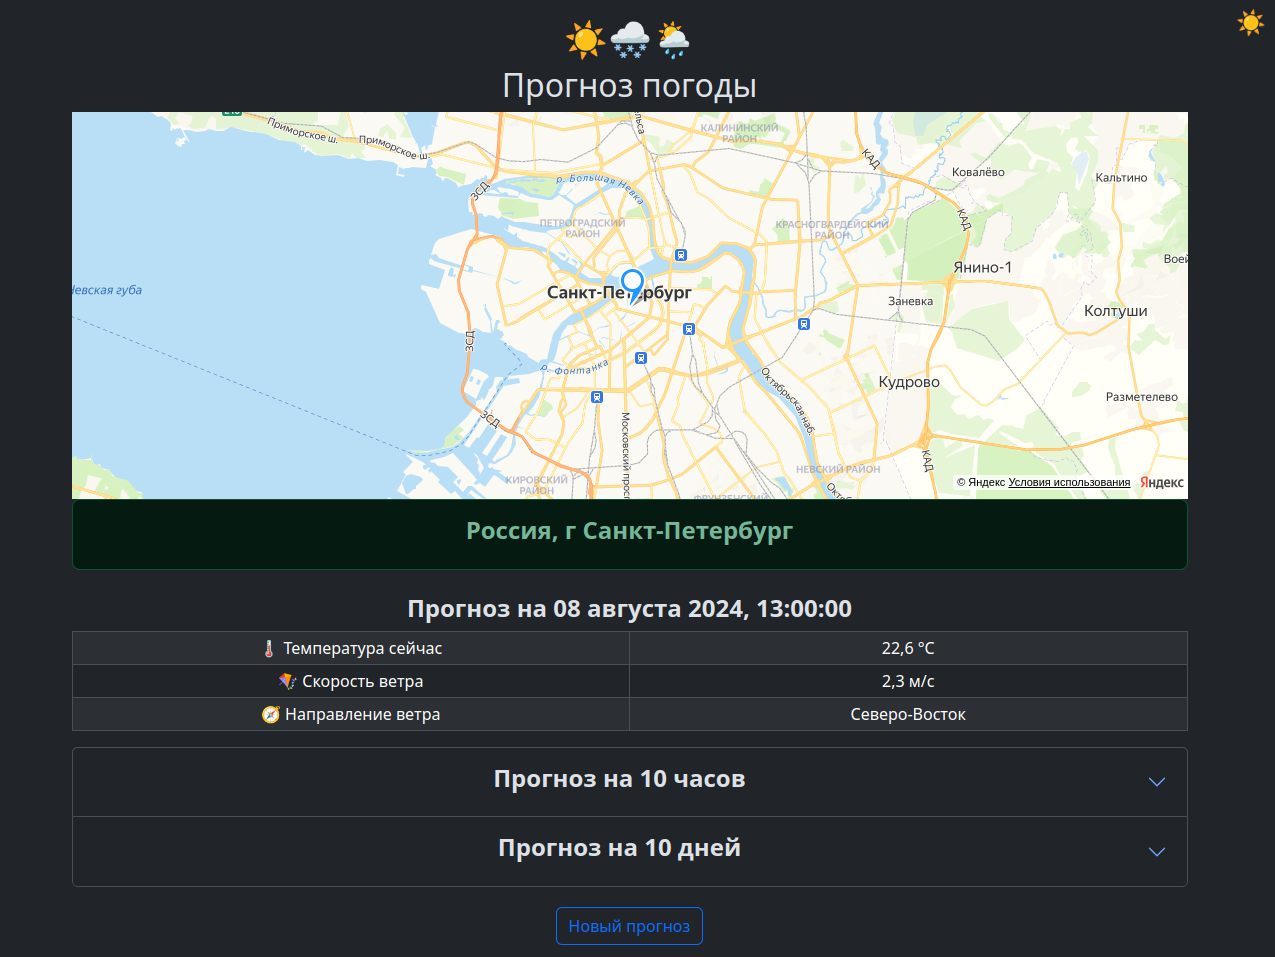
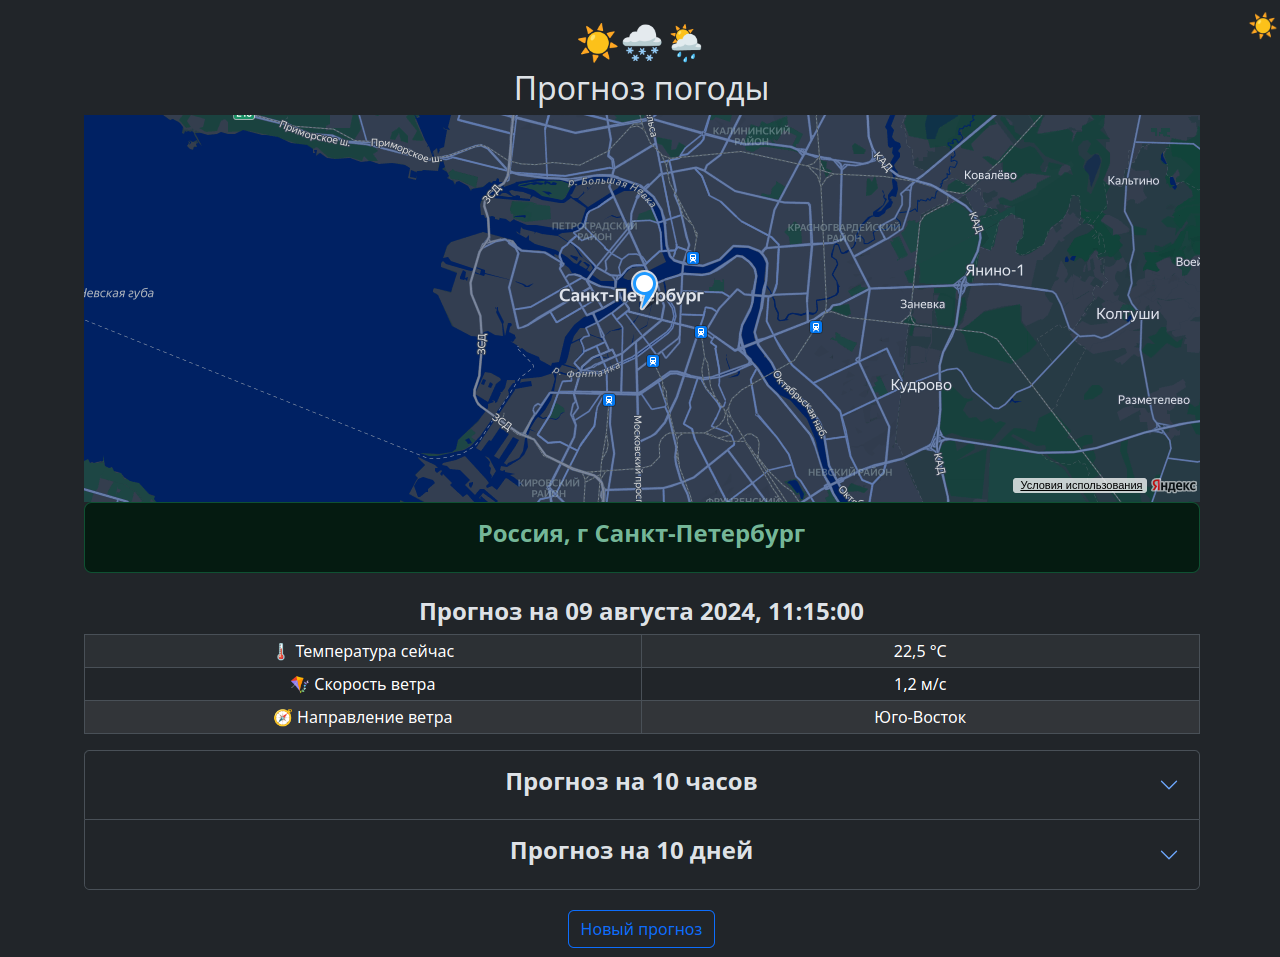
UI changes in map dark mode.

diff --git a/backend/templates/includes/map.html b/backend/templates/includes/map.html
@@ -1,5 +1,5 @@
 <!DOCTYPE html>
-<html lang="ru">
+<html lang="ru" data-bs-theme="">
 <head>
     <meta charset="UTF-8">
     <meta name="viewport" content="width=device-width, initial-scale=1.0">
@@ -28,39 +28,59 @@
         </div>
     </div>
 
+    <!-- Яндекс Карты API -->
     <script>
-        document.addEventListener('DOMContentLoaded', function() {
-            const yandexApiUrl = `https://api-maps.yandex.ru/2.1/?apikey={{ yandex_api_key }}&lang=ru_RU`;
+        (function() {
+            'use strict';
 
-            let map = null;
+            const yandexApiUrl = `https://api-maps.yandex.ru/2.1/?apikey={{ yandex_api_key }}&lang=ru_RU`;
             let isLoading = false;
 
-            // Функция для создания карты после загрузки API Яндекс.Карт
+            // Создание карты после загрузки API Яндекс.Карт
             async function createMap() {
-                ymaps.ready(function() {
-                    const latitude = {{ latitude|safe }};
-                    const longitude = {{ longitude|safe }};
-                    const temperature = {{ forecast.current_weather.temperature|safe }};
+                if (window.ymaps) {
+                    await ymaps.ready(function() {
+                        const latitude = {{ latitude|safe }};
+                        const longitude = {{ longitude|safe }};
+                        const temperature = {{ forecast.current_weather.temperature|safe }};
 
-                    map = new ymaps.Map('canvas', {
-                        center: [latitude, longitude],
-                        zoom: 11,
-                        controls: []
-                    }, {
-                        suppressMapOpenBlock: true,
-                        yandexMapDisablePoiInteractivity: false
+                        window.map = new ymaps.Map('canvas', {
+                            center: [latitude, longitude],
+                            zoom: 11,
+                            controls: []
+                        }, {
+                            suppressMapOpenBlock: true,
+                            yandexMapDisablePoiInteractivity: false
+                        });
+
+                        var marker = new ymaps.Placemark([latitude, longitude], {
+                            hintContent: `Температура: ${temperature}°C, Широта: ${latitude}, Долгота: ${longitude}`,
+                            balloonContent: `<strong>Температура:</strong> ${temperature}°C<br><strong>Широта:</strong> ${latitude}<br><strong>Долгота:</strong> ${longitude}`
+                        });
+
+                        window.map.geoObjects.add(marker);
+
+                        // Устанавливаем начальный слой карты в зависимости от текущей темы
+                        setMapLayer(getPreferredTheme());
                     });
-
-                    var marker = new ymaps.Placemark([latitude, longitude], {
-                        hintContent: `Температура: ${temperature}°C, Широта: ${latitude}, Долгота: ${longitude}`,
-                        balloonContent: `<strong>Температура:</strong> ${temperature}°C<br><strong>Широта:</strong> ${latitude}<br><strong>Долгота:</strong> ${longitude}`
-                    });
-
-                    map.geoObjects.add(marker);
-                });
+                } else {
+                    console.error('ymaps is not defined');
+                }
             }
 
-            // Функция для асинхронной загрузки скрипта API Яндекс.Карт
+            // Функция для установки слоя карты
+            function setMapLayer(map_type) {
+                if (window.map) {
+                    const MAP = 'custom#' + map_type;
+                    ymaps.layer.storage.add(MAP, function mapLayer() {
+                        return new ymaps.Layer('https://core-renderer-tiles.maps.yandex.net/tiles?l=map' + ((map_type === 'dark') ? ('&theme=dark') : '') + '&%c&%l');
+                    });
+                    ymaps.mapType.storage.add(MAP, new ymaps.MapType(map_type, [MAP]));
+                    window.map.setType(MAP);
+                }
+            }
+
+            // Загрузка скрипта карты
             async function loadMapScript() {
                 if (isLoading) return;
                 isLoading = true;
@@ -71,27 +91,263 @@
                 script.onload = function() {
                     createMap();
                 };
+                script.onerror = function() {
+                    console.error('Failed to load Yandex Maps API');
+                };
                 document.head.appendChild(script);
             }
 
-            // Используем IntersectionObserver для отслеживания видимости элемента
-            const observer = new IntersectionObserver(entries => {
-                if (entries[0].isIntersecting) {
-                    if (!map) {
-                        loadMapScript();
-                    }
-                    observer.unobserve(entries[0].target);
-                }
-            }, { threshold: [0] });
+            document.addEventListener('DOMContentLoaded', () => {
+                loadMapScript();
 
-            observer.observe(document.getElementById('canvas'));
-        });
+                window.matchMedia('(prefers-color-scheme: dark)').addEventListener('change', e => {
+                    const newTheme = e.matches ? 'dark' : 'light';
+                    setTheme(newTheme);
+                });
+            });
+
+
+            // Bootstrap Theme Toggle Script
+            const getStoredTheme = () => localStorage.getItem('theme');
+            const setStoredTheme = theme => localStorage.setItem('theme', theme);
+
+            const getPreferredTheme = () => {
+                const storedTheme = getStoredTheme();
+                if (storedTheme) {
+                    return storedTheme;
+                }
+                return window.matchMedia('(prefers-color-scheme: dark)').matches ? 'dark' : 'light';
+            }
+        })();
     </script>
 </body>
 </html>
 
 
 
+
+
+{#<!DOCTYPE html>#}
+{#<html lang="ru">#}
+{#<head>#}
+{#    <meta charset="UTF-8">#}
+{#    <meta name="viewport" content="width=device-width, initial-scale=1.0">#}
+{#    <title>Yandex Map</title>#}
+{#    <style>#}
+{#        .mapouter {#}
+{#            position: relative;#}
+{#            text-align: right;#}
+{#            height: 40vh; /* Высота карты */#}
+{#            width: 100%;   /* Ширина карты */#}
+{#            overflow: hidden;#}
+{#        }#}
+{#        .canvas {#}
+{#            position: relative;#}
+{#            top: 0;#}
+{#            left: 0;#}
+{#            width: 100%;#}
+{#            height: 100%;#}
+{#        }#}
+{#    </style>#}
+{#</head>#}
+{#<body>#}
+{#    <div class="container">#}
+{#        <div class="mapouter">#}
+{#            <div id="canvas" class="canvas"></div>#}
+{#        </div>#}
+{#    </div>#}
+{##}
+{#    <script>#}
+{#        document.addEventListener('DOMContentLoaded', function() {#}
+{#            const yandexApiUrl = `https://api-maps.yandex.ru/2.1/?apikey={{ yandex_api_key }}&lang=ru_RU`;#}
+{##}
+{#            let map = null;#}
+{#            let isLoading = false;#}
+{##}
+{#            // Функция для создания карты после загрузки API Яндекс.Карт#}
+{#            async function createMap() {#}
+{#                ymaps.ready(function() {#}
+{#                    const latitude = {{ latitude|safe }};#}
+{#                    const longitude = {{ longitude|safe }};#}
+{#                    const temperature = {{ forecast.current_weather.temperature|safe }};#}
+{##}
+{#                    map = new ymaps.Map('canvas', {#}
+{#                        center: [latitude, longitude],#}
+{#                        zoom: 11,#}
+{#                        controls: []#}
+{#                    }, {#}
+{#                        suppressMapOpenBlock: true,#}
+{#                        yandexMapDisablePoiInteractivity: false#}
+{#                    });#}
+{##}
+{#                    var marker = new ymaps.Placemark([latitude, longitude], {#}
+{#                        hintContent: `Температура: ${temperature}°C, Широта: ${latitude}, Долгота: ${longitude}`,#}
+{#                        balloonContent: `<strong>Температура:</strong> ${temperature}°C<br><strong>Широта:</strong> ${latitude}<br><strong>Долгота:</strong> ${longitude}`#}
+{#                    });#}
+{##}
+{#                    map.geoObjects.add(marker);#}
+{##}
+{#                    // Добавляем кнопку для переключения между дневным и ночным режимами#}
+{#                    var button = new ymaps.control.Button({#}
+{#                        data: {#}
+{#                            content: 'Ночной режим'#}
+{#                        },#}
+{#                        options: {#}
+{#                            selectOnClick: true,#}
+{#                            maxWidth: [90, 120, 200]#}
+{#                        }#}
+{#                    });#}
+{##}
+{#                    button.events.add('select', function() {#}
+{#                        setMapLayer(map, 'dark');#}
+{#                    }).add('deselect', function() {#}
+{#                        setMapLayer(map, 'light');#}
+{#                    });#}
+{##}
+{#                    map.controls.add(button, {#}
+{#                        float: 'left'#}
+{#                    });#}
+{#                });#}
+{#            }#}
+{##}
+{#            // Функция для смены слоя карты#}
+{#            function setMapLayer(map, map_type) {#}
+{#                const MAP = 'custom#' + map_type;#}
+{#                ymaps.layer.storage.add(MAP, function mapLayer() {#}
+{#                    return new ymaps.Layer('https://core-renderer-tiles.maps.yandex.net/tiles?l=map' + ((map_type == 'dark') ? ('&theme=dark') : ('')) + '&%c&%l');#}
+{#                });#}
+{#                ymaps.mapType.storage.add(MAP, new ymaps.MapType(map_type, [MAP]));#}
+{#                map.setType(MAP);#}
+{#            }#}
+{##}
+{#            // Функция для асинхронной загрузки скрипта API Яндекс.Карт#}
+{#            async function loadMapScript() {#}
+{#                if (isLoading) return;#}
+{#                isLoading = true;#}
+{##}
+{#                const script = document.createElement('script');#}
+{#                script.src = yandexApiUrl;#}
+{#                script.async = true;#}
+{#                script.onload = function() {#}
+{#                    createMap();#}
+{#                };#}
+{#                document.head.appendChild(script);#}
+{#            }#}
+{##}
+{#            // Используем IntersectionObserver для отслеживания видимости элемента#}
+{#            const observer = new IntersectionObserver(entries => {#}
+{#                if (entries[0].isIntersecting) {#}
+{#                    if (!map) {#}
+{#                        loadMapScript();#}
+{#                    }#}
+{#                    observer.unobserve(entries[0].target);#}
+{#                }#}
+{#            }, { threshold: [0] });#}
+{##}
+{#            observer.observe(document.getElementById('canvas'));#}
+{#        });#}
+{#    </script>#}
+{#</body>#}
+{#</html>#}
+{##}
+{##}
+{##}
+{##}
+{##}
+{#<!DOCTYPE html>#}
+{#<html lang="ru">#}
+{#<head>#}
+{#    <meta charset="UTF-8">#}
+{#    <meta name="viewport" content="width=device-width, initial-scale=1.0">#}
+{#    <title>Yandex Map</title>#}
+{#    <style>#}
+{#        .mapouter {#}
+{#            position: relative;#}
+{#            text-align: right;#}
+{#            height: 40vh; /* Высота карты */#}
+{#            width: 100%;   /* Ширина карты */#}
+{#            overflow: hidden;#}
+{#        }#}
+{#        .canvas {#}
+{#            position: relative;#}
+{#            top: 0;#}
+{#            left: 0;#}
+{#            width: 100%;#}
+{#            height: 100%;#}
+{#        }#}
+{#    </style>#}
+{#</head>#}
+{#<body>#}
+{#    <div class="container">#}
+{#        <div class="mapouter">#}
+{#            <div id="canvas" class="canvas"></div>#}
+{#        </div>#}
+{#    </div>#}
+{##}
+{#    <script>#}
+{#        document.addEventListener('DOMContentLoaded', function() {#}
+{#            const yandexApiUrl = `https://api-maps.yandex.ru/2.1/?apikey={{ yandex_api_key }}&lang=ru_RU`;#}
+{##}
+{#            let map = null;#}
+{#            let isLoading = false;#}
+{##}
+{#            // Функция для создания карты после загрузки API Яндекс.Карт#}
+{#            async function createMap() {#}
+{#                ymaps.ready(function() {#}
+{#                    const latitude = {{ latitude|safe }};#}
+{#                    const longitude = {{ longitude|safe }};#}
+{#                    const temperature = {{ forecast.current_weather.temperature|safe }};#}
+{##}
+{#                    map = new ymaps.Map('canvas', {#}
+{#                        center: [latitude, longitude],#}
+{#                        zoom: 11,#}
+{#                        controls: []#}
+{#                    }, {#}
+{#                        suppressMapOpenBlock: true,#}
+{#                        yandexMapDisablePoiInteractivity: false#}
+{#                    });#}
+{##}
+{#                    var marker = new ymaps.Placemark([latitude, longitude], {#}
+{#                        hintContent: `Температура: ${temperature}°C, Широта: ${latitude}, Долгота: ${longitude}`,#}
+{#                        balloonContent: `<strong>Температура:</strong> ${temperature}°C<br><strong>Широта:</strong> ${latitude}<br><strong>Долгота:</strong> ${longitude}`#}
+{#                    });#}
+{##}
+{#                    map.geoObjects.add(marker);#}
+{#                });#}
+{#            }#}
+{##}
+{#            // Функция для асинхронной загрузки скрипта API Яндекс.Карт#}
+{#            async function loadMapScript() {#}
+{#                if (isLoading) return;#}
+{#                isLoading = true;#}
+{##}
+{#                const script = document.createElement('script');#}
+{#                script.src = yandexApiUrl;#}
+{#                script.async = true;#}
+{#                script.onload = function() {#}
+{#                    createMap();#}
+{#                };#}
+{#                document.head.appendChild(script);#}
+{#            }#}
+{##}
+{#            // Используем IntersectionObserver для отслеживания видимости элемента#}
+{#            const observer = new IntersectionObserver(entries => {#}
+{#                if (entries[0].isIntersecting) {#}
+{#                    if (!map) {#}
+{#                        loadMapScript();#}
+{#                    }#}
+{#                    observer.unobserve(entries[0].target);#}
+{#                }#}
+{#            }, { threshold: [0] });#}
+{##}
+{#            observer.observe(document.getElementById('canvas'));#}
+{#        });#}
+{#    </script>#}
+{#</body>#}
+{#</html>#}
+{##}
+{##}
+{##}
 {#<!DOCTYPE html>#}
 {#<html lang="ru">#}
 {#<head>#}
